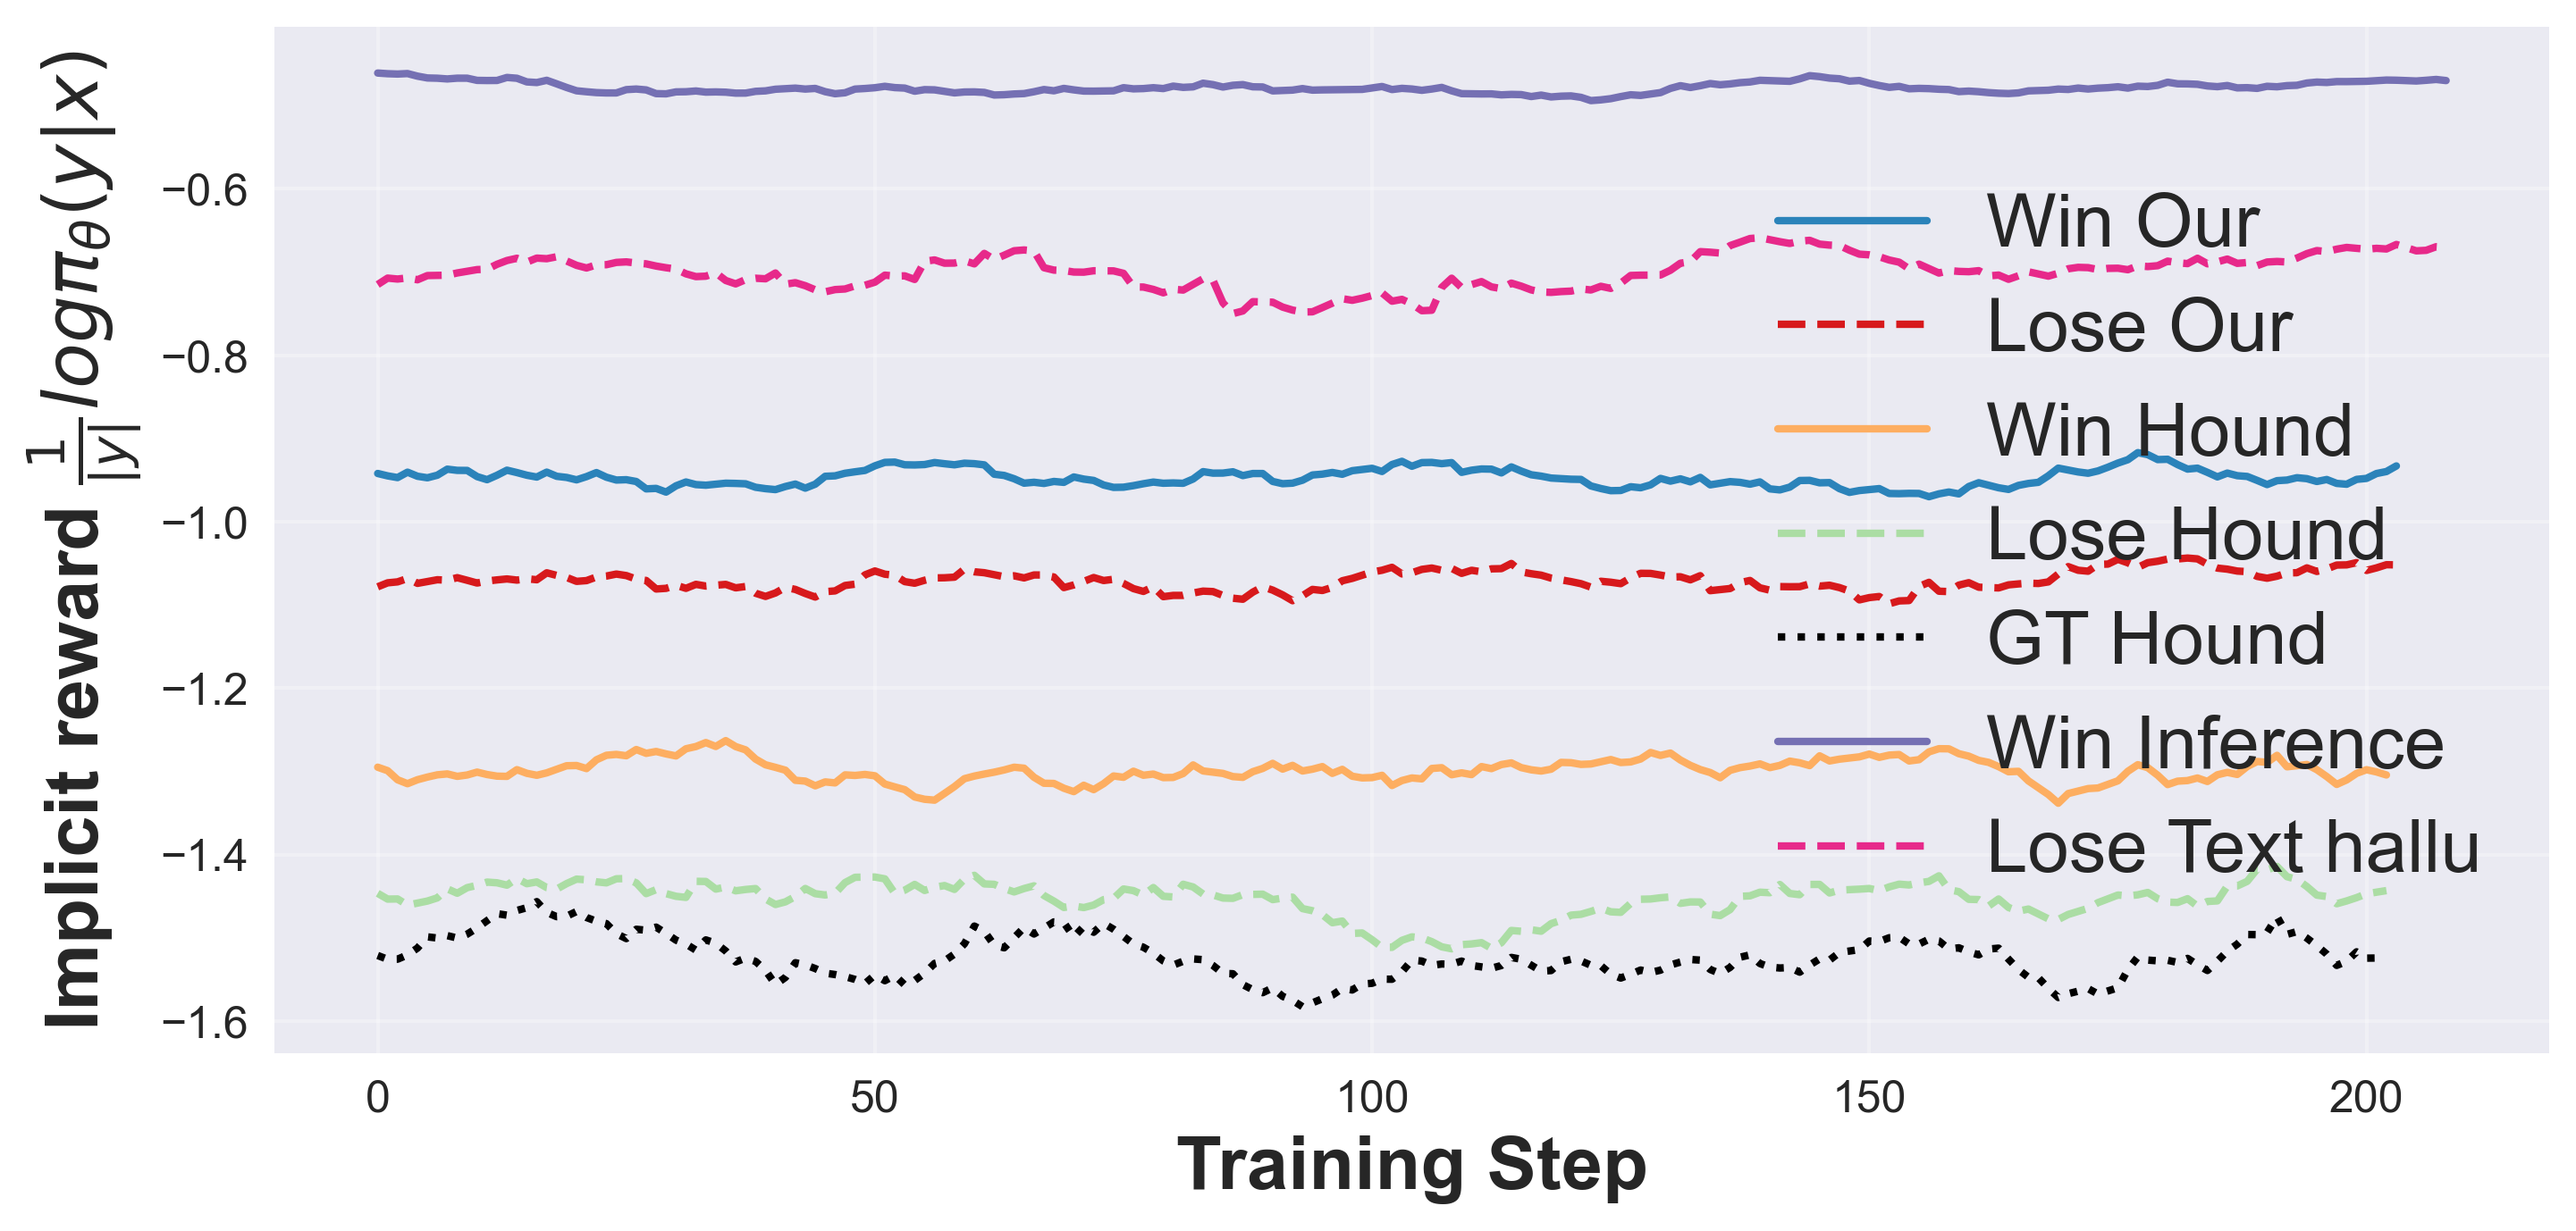
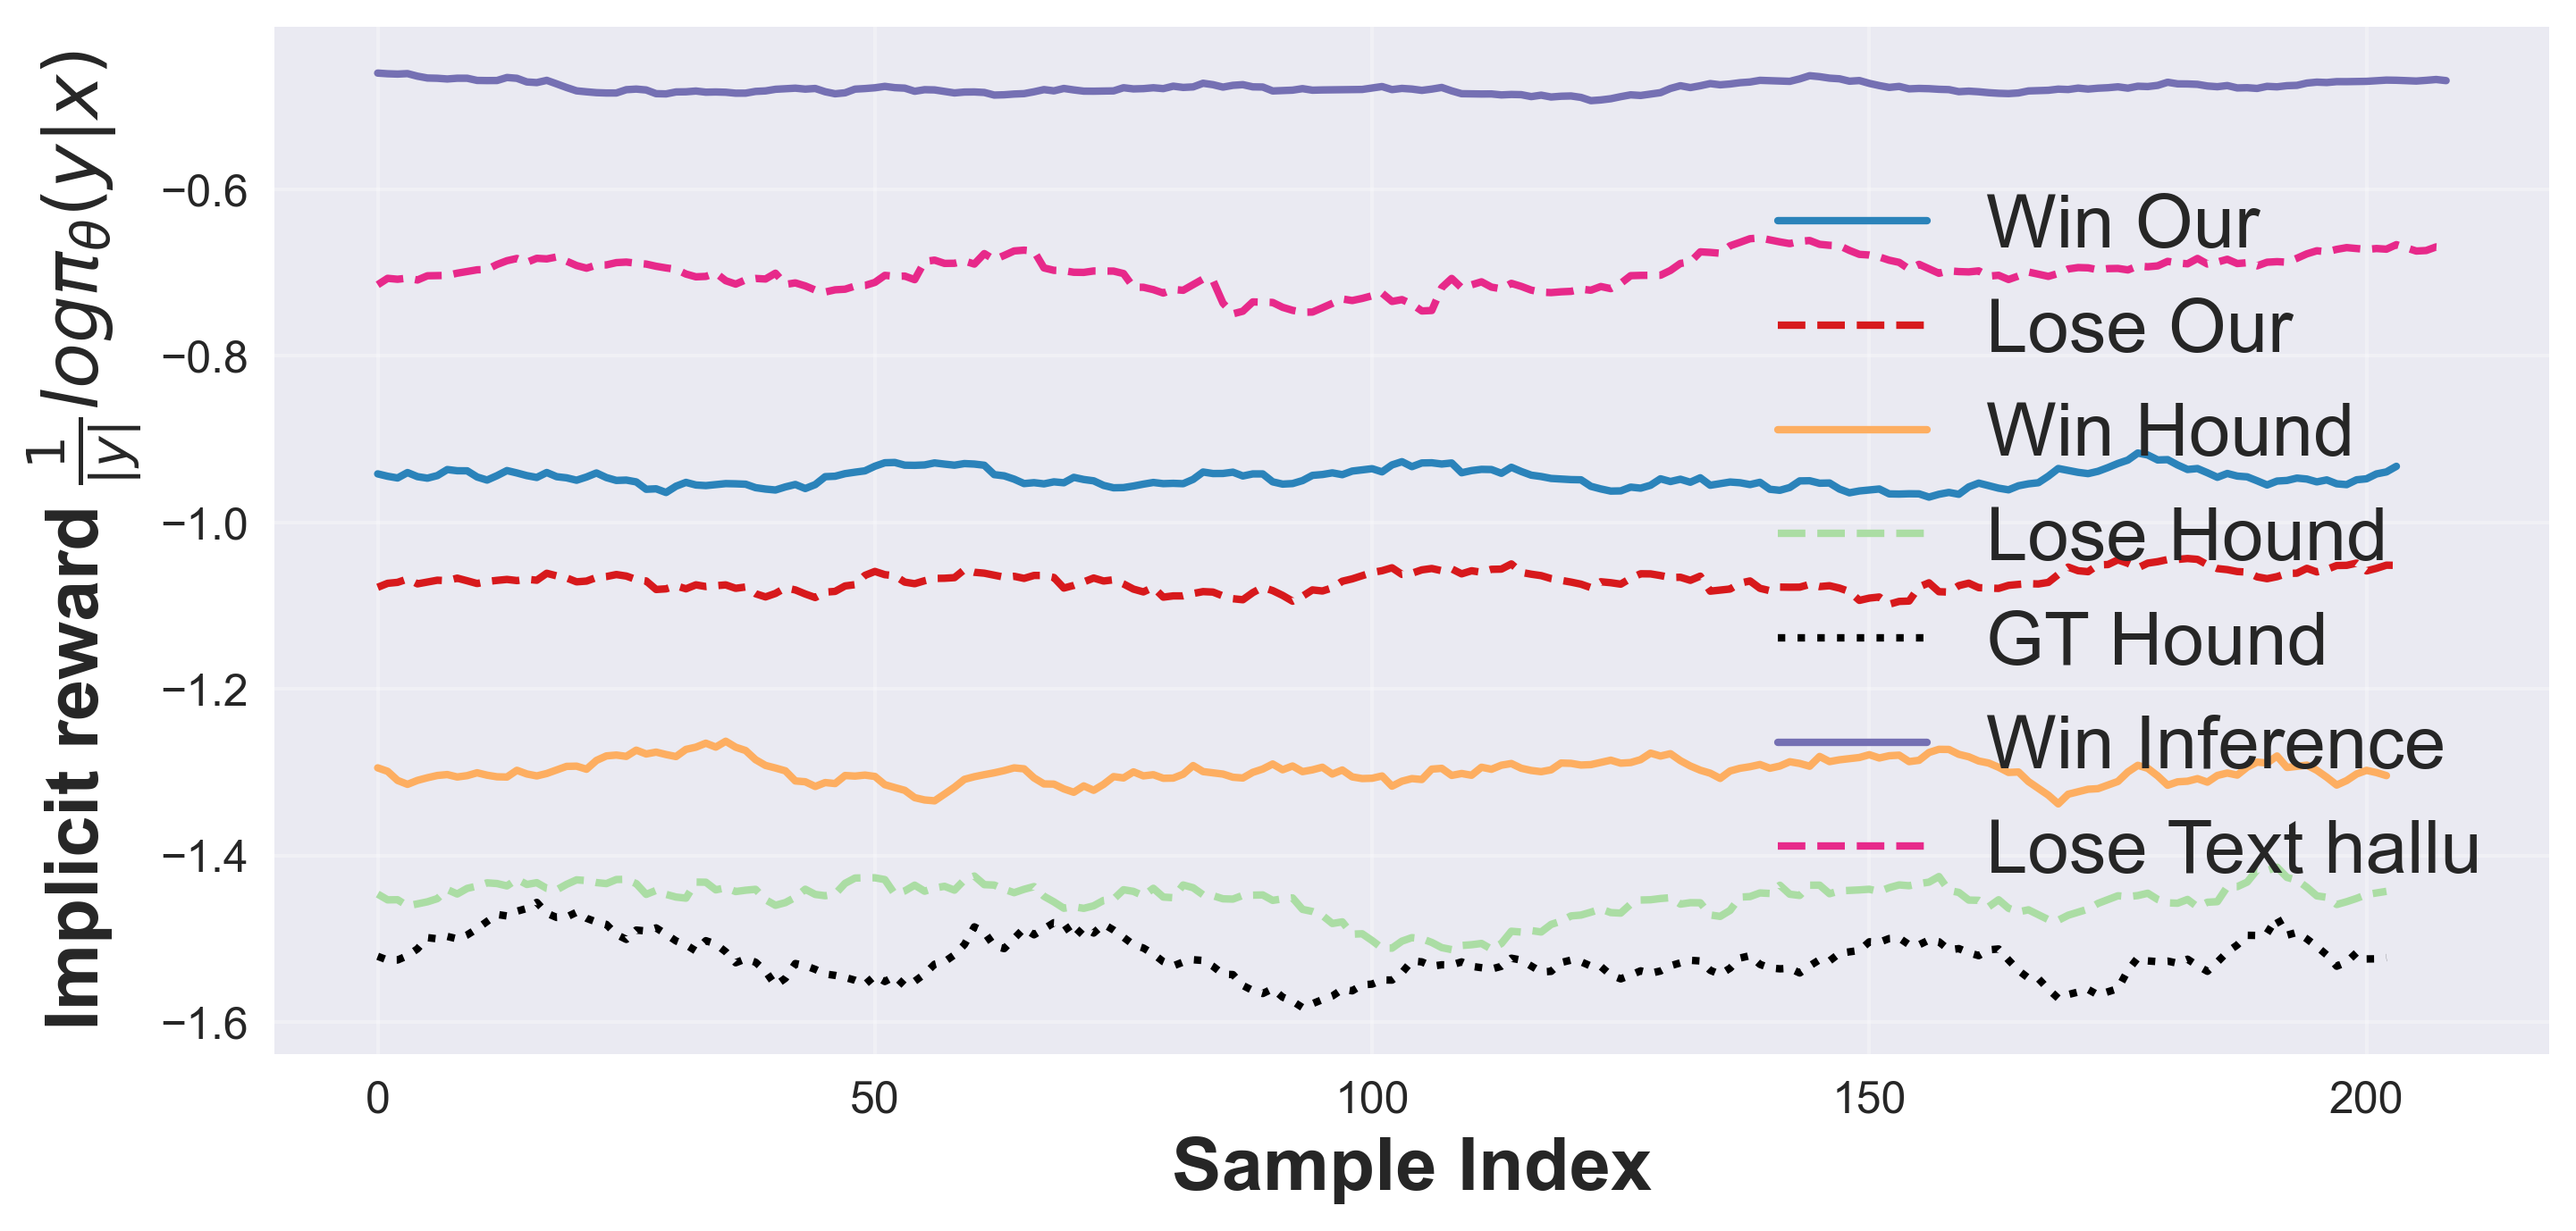
minor

diff --git a/scripts/log/plot_logp_our_method_our_win_our_rej.py b/scripts/log/plot_logp_our_method_our_win_our_rej.py
@@ -112,7 +112,7 @@ plt.plot(df_input["_step"][:200], df_input["smoothed_rejected"][:200],
 #             color='#E1463C', marker='*', s=200, edgecolor='black', zorder=5)
 
 # 标注信息
-plt.xlabel('Training Step', fontweight='bold')
+plt.xlabel('Sample Index', fontweight='bold')
 plt.ylabel(r'Implicit reward $\frac{1}{|y|}log\pi_{\theta}(y|x)$', fontweight='bold')
 # plt.title(f'Smoothed Log Probabilities (Window Size={smoothing_window})', 
 #          fontsize=14, fontweight='bold')
